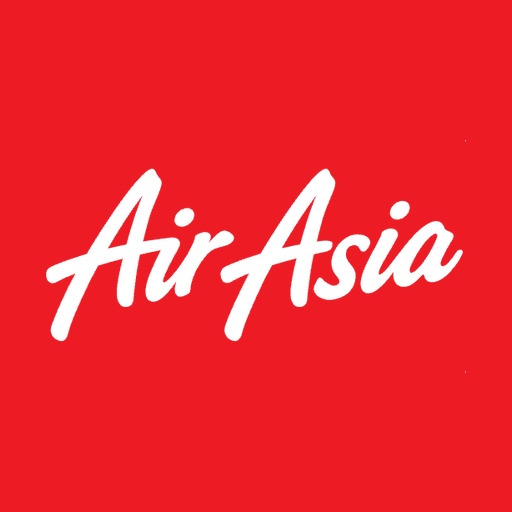
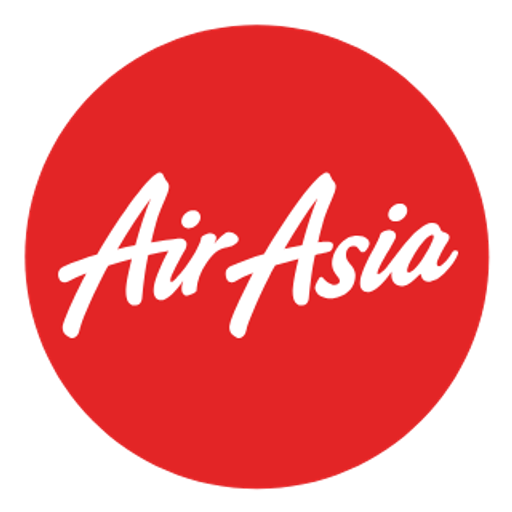
Make the circular roundel the site identity
The supplied roundel already ships clean transparency, so it drops straight
into the header, footer and Razorpay checkout, and replaces the app icon
(padded slightly so platforms that round icon corners do not clip the
circle). The hero keeps the large white wordmark for display; the unused
rectangular block asset and its lockup variant are removed.

diff --git a/airasia-immersive/components/Logo.tsx b/airasia-immersive/components/Logo.tsx
@@ -1,38 +1,42 @@
 import Image from 'next/image'
+import roundel from '@/public/airasia-roundel.png'
 import wordmark from '@/public/airasia-wordmark.png'
 
 interface LogoProps {
   /**
-   * `lockup` sets the white wordmark on the brand red tile, for light surfaces.
-   * `white` is the bare wordmark, for dark surfaces.
+   * `roundel` is the circular brand mark and the site's identity — use it in
+   * chrome (header, footer, checkout). `white` is the bare script wordmark for
+   * large display on dark surfaces.
    */
-  variant?: 'lockup' | 'white'
+  variant?: 'roundel' | 'white'
   className?: string
   priority?: boolean
 }
 
 export default function Logo({
-  variant = 'lockup',
-  className = 'h-5 sm:h-6',
+  variant = 'roundel',
+  className,
   priority = false,
 }: LogoProps) {
-  const mark = (
-    <Image
-      src={wordmark}
-      alt="AirAsia"
-      priority={priority}
-      className={`${className} w-auto`}
-      sizes="(max-width: 640px) 120px, 180px"
-    />
-  )
-
   if (variant === 'white') {
-    return mark
+    return (
+      <Image
+        src={wordmark}
+        alt="AirAsia"
+        priority={priority}
+        className={`${className ?? 'h-5 sm:h-6'} w-auto`}
+        sizes="(max-width: 640px) 120px, 180px"
+      />
+    )
   }
 
   return (
-    <span className="inline-flex items-center rounded-md bg-aa-red px-2.5 py-1.5">
-      {mark}
-    </span>
+    <Image
+      src={roundel}
+      alt="AirAsia"
+      priority={priority}
+      className={`${className ?? 'h-10 sm:h-11'} w-auto`}
+      sizes="(max-width: 640px) 40px, 44px"
+    />
   )
 }

diff --git a/airasia-immersive/app/page.tsx b/airasia-immersive/app/page.tsx
@@ -105,7 +105,12 @@ export default function Home() {
 
       <footer className="mx-auto mt-16 max-w-7xl px-4 sm:px-6">
         <div className="border-t border-neutral-200 pt-6 text-xs text-neutral-500">
-          <Logo className="h-4" />
+          <div className="flex items-center gap-3">
+            <Logo className="h-9" />
+            <span className="text-sm font-black tracking-tight text-neutral-800">
+              AirAsia Unofficial
+            </span>
+          </div>
           <p className="mt-3 max-w-2xl">
             A fan-built concept, not affiliated with or endorsed by AirAsia or
             Capital A. Fares, schedules, seat availability and job postings are

diff --git a/airasia-immersive/components/PaymentModal.tsx b/airasia-immersive/components/PaymentModal.tsx
@@ -104,7 +104,7 @@ export default function PaymentModal() {
       currency: order.currency,
       name: 'AirAsia Unofficial',
       description: 'Flight booking confirmation',
-      image: `${window.location.origin}/airasia-logo.png`,
+      image: `${window.location.origin}/airasia-roundel.png`,
       order_id: order.id,
       handler: (response: RazorpayResponse) => void confirm(response),
       modal: {
